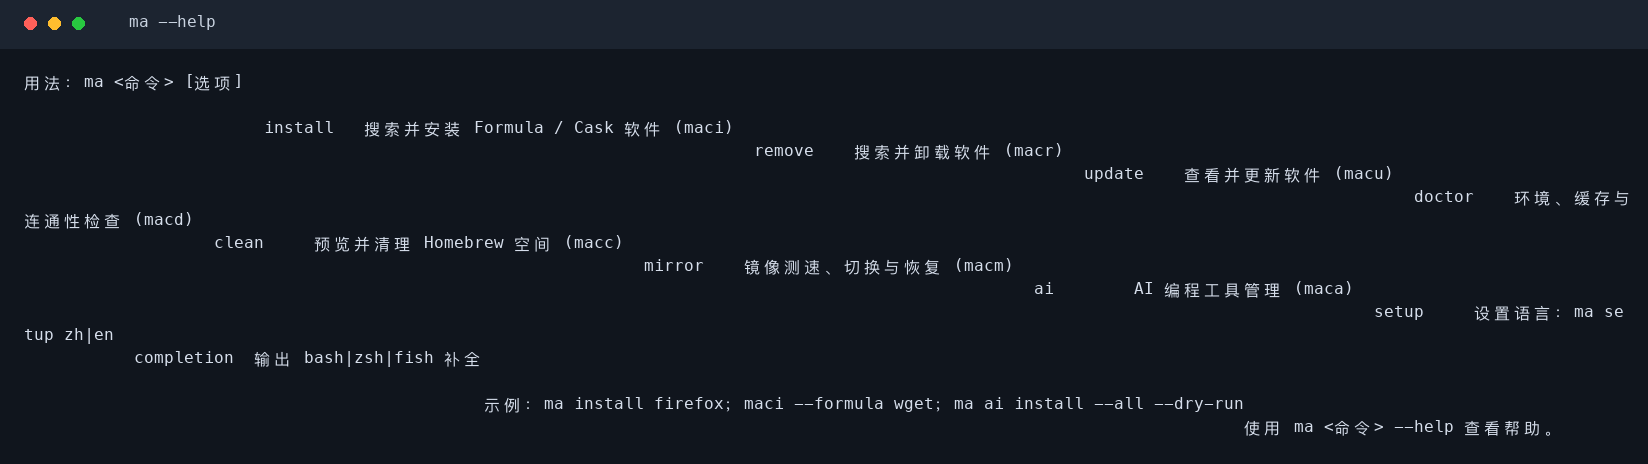
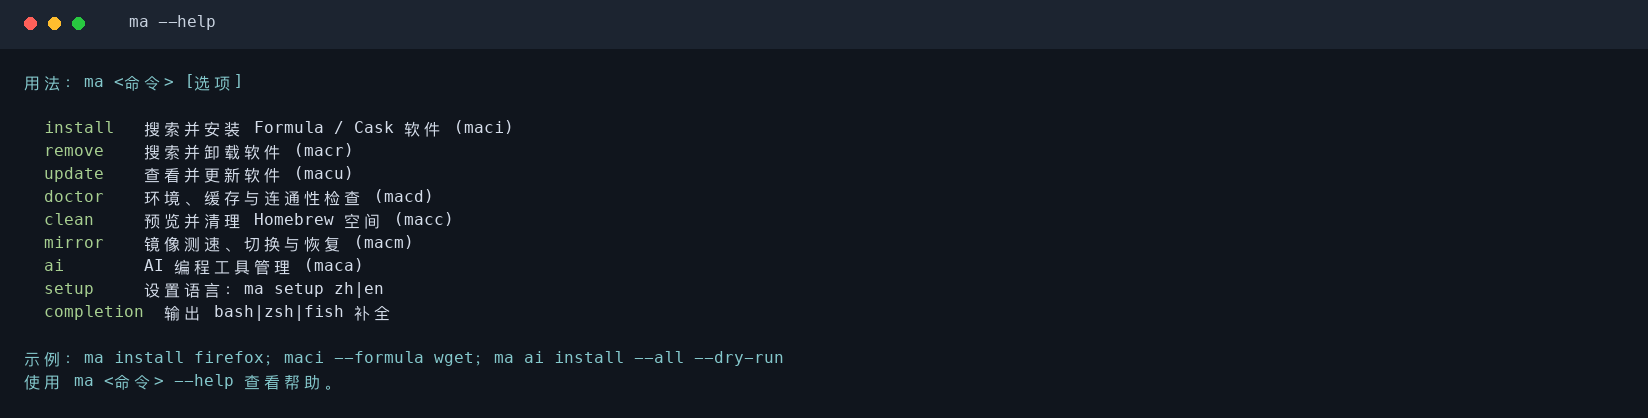
docs: fix demo screenshot colors and text alignment

diff --git a/scripts/capture_demo.py b/scripts/capture_demo.py
@@ -2,9 +2,10 @@
 """Render recorded terminal sessions for README screenshots on macOS.
 
 Optional development dependencies: pip install pillow pyte
-Record in a 160-column, 35-row terminal from the repository root:
-    script -q .reference/help.typescript ./bin/ma --help
-    script -q .reference/install.typescript ./bin/maci --dry-run --cask --exact firefox
+Record in a 160-column, 32-row terminal from the repository root:
+    stty cols 160 rows 32
+    env -u NO_COLOR TERM=xterm-256color script -q .reference/help.typescript ./bin/ma --help
+    env -u NO_COLOR TERM=xterm-256color script -q .reference/install.typescript ./bin/maci --dry-run --cask --exact firefox
 Exit the selector with ESC after the preview loads. Then run:
     python scripts/capture_demo.py
 """
@@ -29,7 +30,8 @@ COLORS = {
 def recording(path, interactive=False):
     screen = pyte.Screen(COLS, ROWS)
     stream = pyte.Stream(screen)
-    data = path.read_text(errors='replace')
+    # Preserve CRLF: LF alone advances pyte's row without resetting its column.
+    data = path.read_bytes().decode('utf-8', errors='replace')
     # fzf clears its screen when exiting: render the last frame before cleanup.
     if interactive:
         marker = '\x1b[?1000l'
@@ -47,7 +49,7 @@ def color(value, default):
     return COLORS.get(value, '#' + value if len(value) == 6 else default)
 
 
-def render(screen, filename, command):
+def render(screen, filename, command, highlight_help=False):
     regular = ImageFont.truetype('/System/Library/Fonts/Menlo.ttc', 16)
     chinese = ImageFont.truetype('/System/Library/Fonts/PingFang.ttc', 16, index=2)
     cell_w, cell_h, padding, bar = 10, 23, 24, 48
@@ -68,6 +70,14 @@ def render(screen, filename, command):
             wide = unicodedata.east_asian_width(char.data[0]) in ('W', 'F')
             x, y = padding + column * cell_w, padding + bar + row * cell_h
             fg, bg = color(char.fg, '#d6deeb'), color(char.bg, '#10151d')
+            # Highlight the plain-text help's headings and command column.
+            if highlight_help and char.fg == 'default':
+                line = screen.display[row]
+                if line.startswith('  ') and line.strip():
+                    if 2 <= column < len(line) - len(line.lstrip()) + len(line.split()[0]):
+                        fg = COLORS['green']
+                elif line.strip():
+                    fg = COLORS['cyan']
             if char.reverse:
                 fg, bg = bg, fg
             draw.rectangle((x, y, x + cell_w * (2 if wide else 1) - 1,
@@ -78,7 +88,7 @@ def render(screen, filename, command):
 
 
 if __name__ == '__main__':
-    render(recording(ROOT / '.reference' / 'help.typescript'), 'commands.png', 'ma --help')
+    render(recording(ROOT / '.reference' / 'help.typescript'), 'commands.png', 'ma --help', highlight_help=True)
     render(recording(ROOT / '.reference' / 'install.typescript', interactive=True),
            'install.png', 'maci --cask --exact firefox  # dry-run demo')
     print('Saved docs/images/commands.png and docs/images/install.png')

diff --git a/README.md b/README.md
@@ -27,8 +27,6 @@ ma ai install --all --dry-run
 
 ![ma 帮助界面，展示七项功能及对应缩写](docs/images/commands.png)
 
-截图来自当前程序的真实终端输出，安装界面使用 `--dry-run`，未执行软件安装。重录方法见 [截图脚本](scripts/capture_demo.py)；Pillow 和 pyte 仅用于生成文档图片，运行 mactools 无需这些依赖。
-
 ## 安装与卸载
 
 克隆项目并安装：
